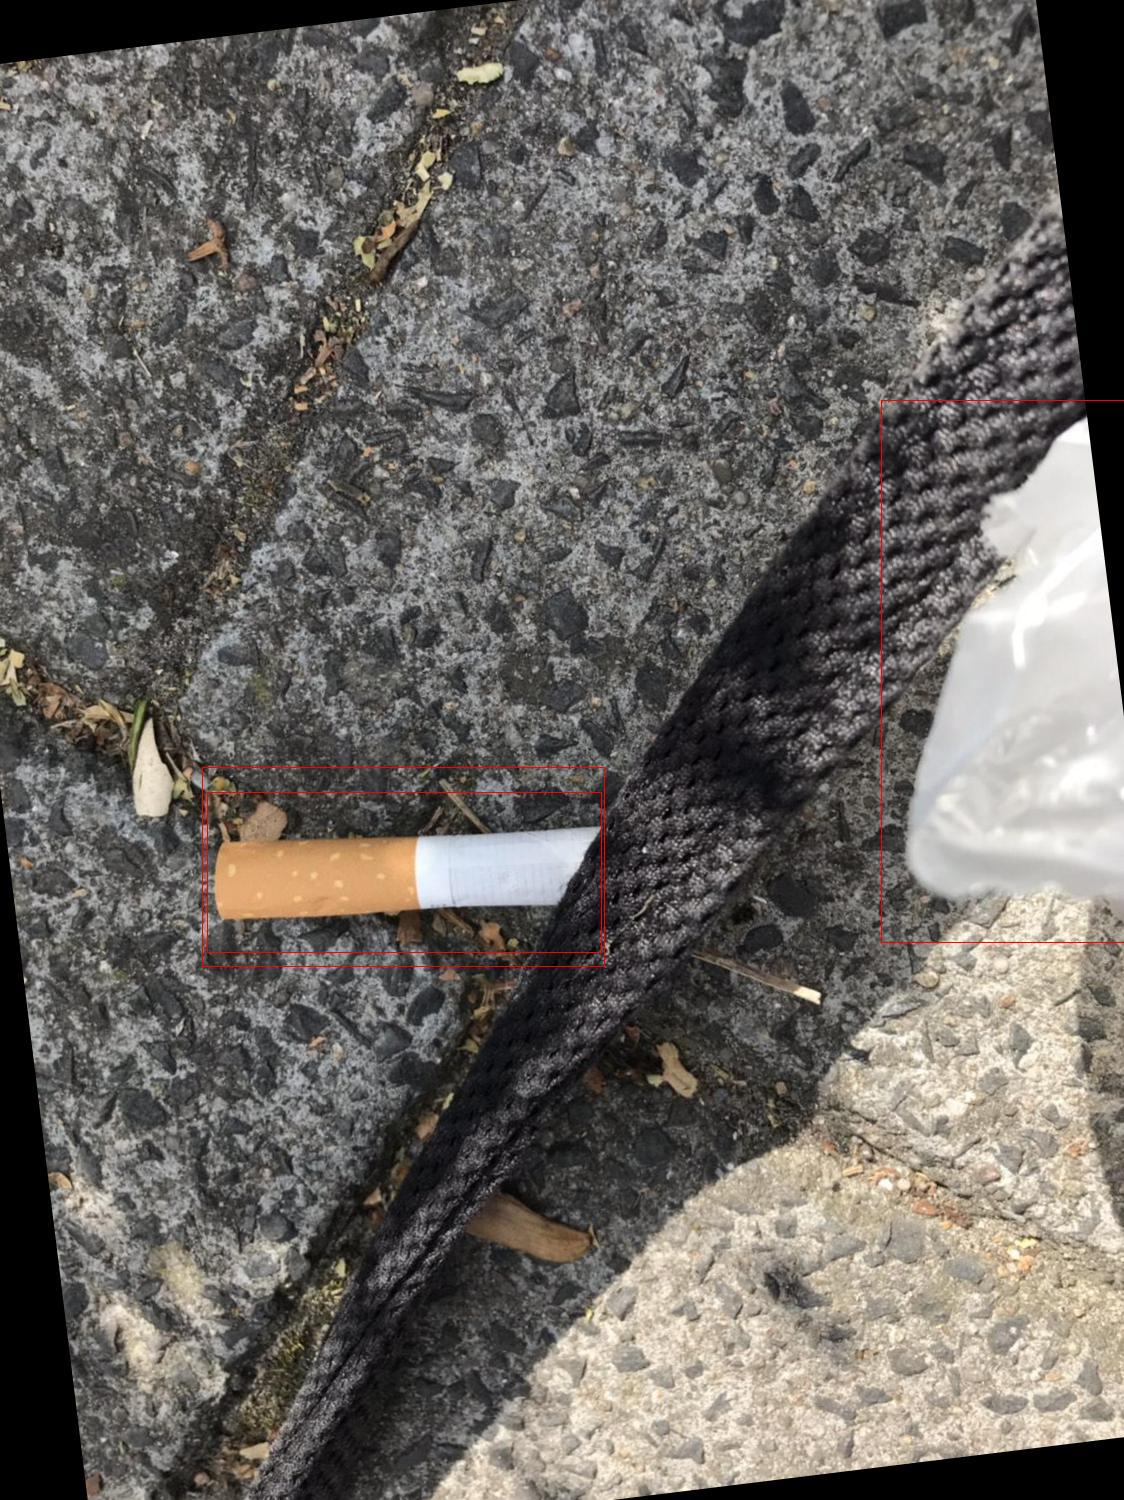
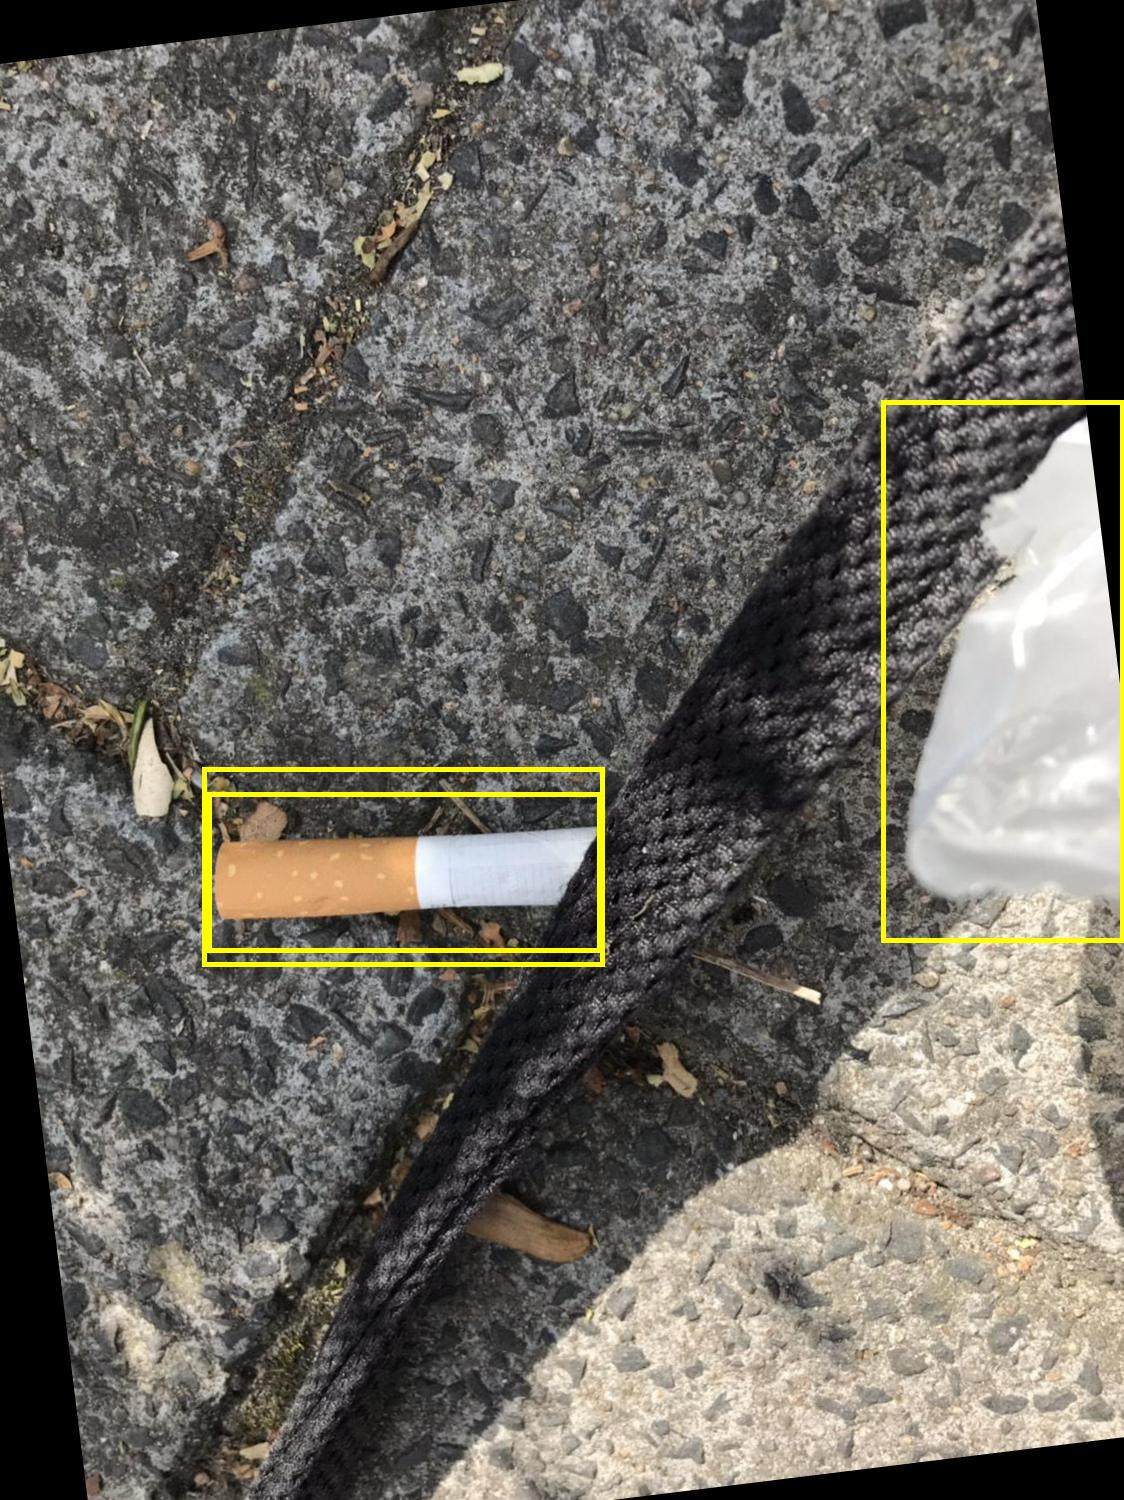
Updated: Added model

Changed region(s): [[0.1557, 0.4907, 0.5605, 0.644], [0.7785, 0.2453, 1.0, 0.644]]

diff --git a/models/views.py b/models/views.py
@@ -50,7 +50,7 @@ def index(request):
             for box in detection.boxes.xyxy:
                 x1, y1, x2, y2 = box.tolist()[:4]  # Extract bounding box coordinates
                 img_draw = ImageDraw.Draw(img)
-                img_draw.rectangle([x1, y1, x2, y2], outline="red")
+                img_draw.rectangle([x1, y1, x2, y2], outline="yellow", width=5)
 
         # Save result image
         result_image_path = os.path.join(settings.MEDIA_ROOT, "result_image.jpg")
